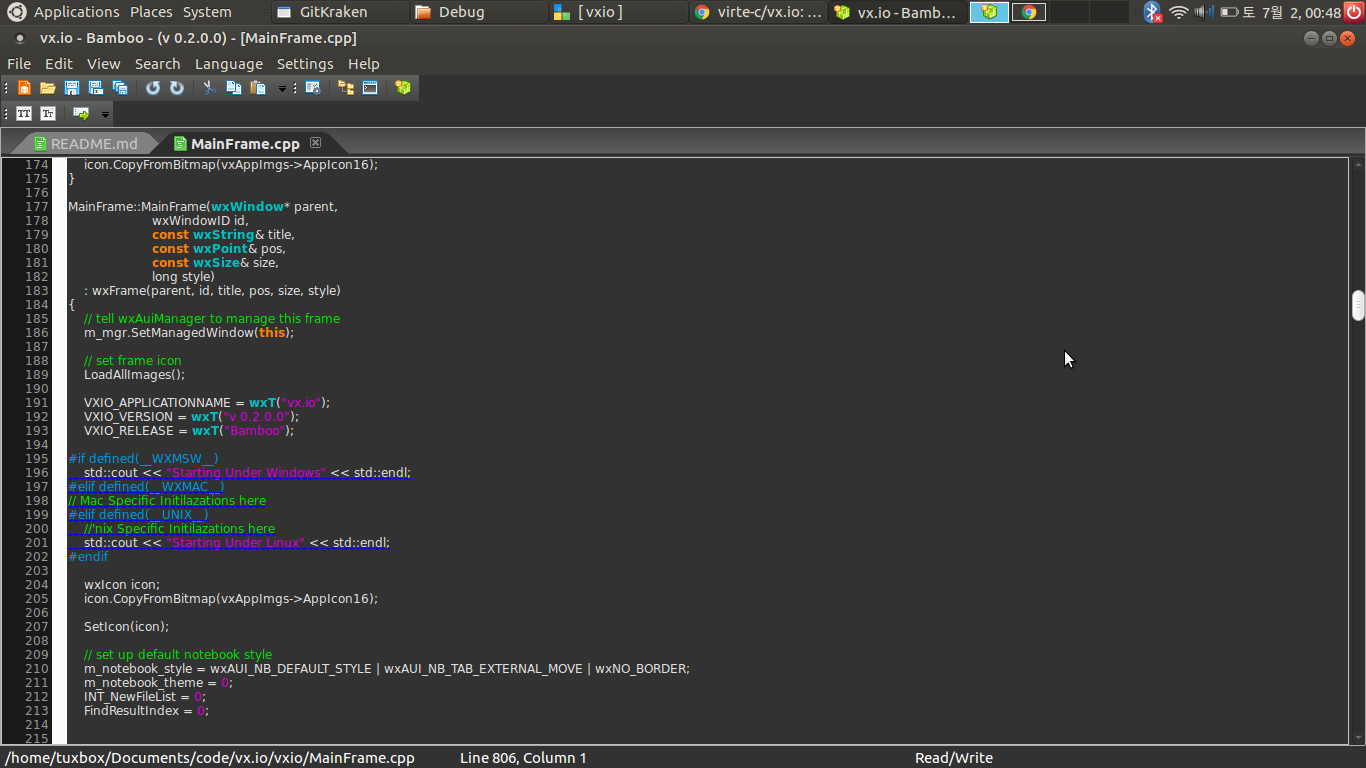
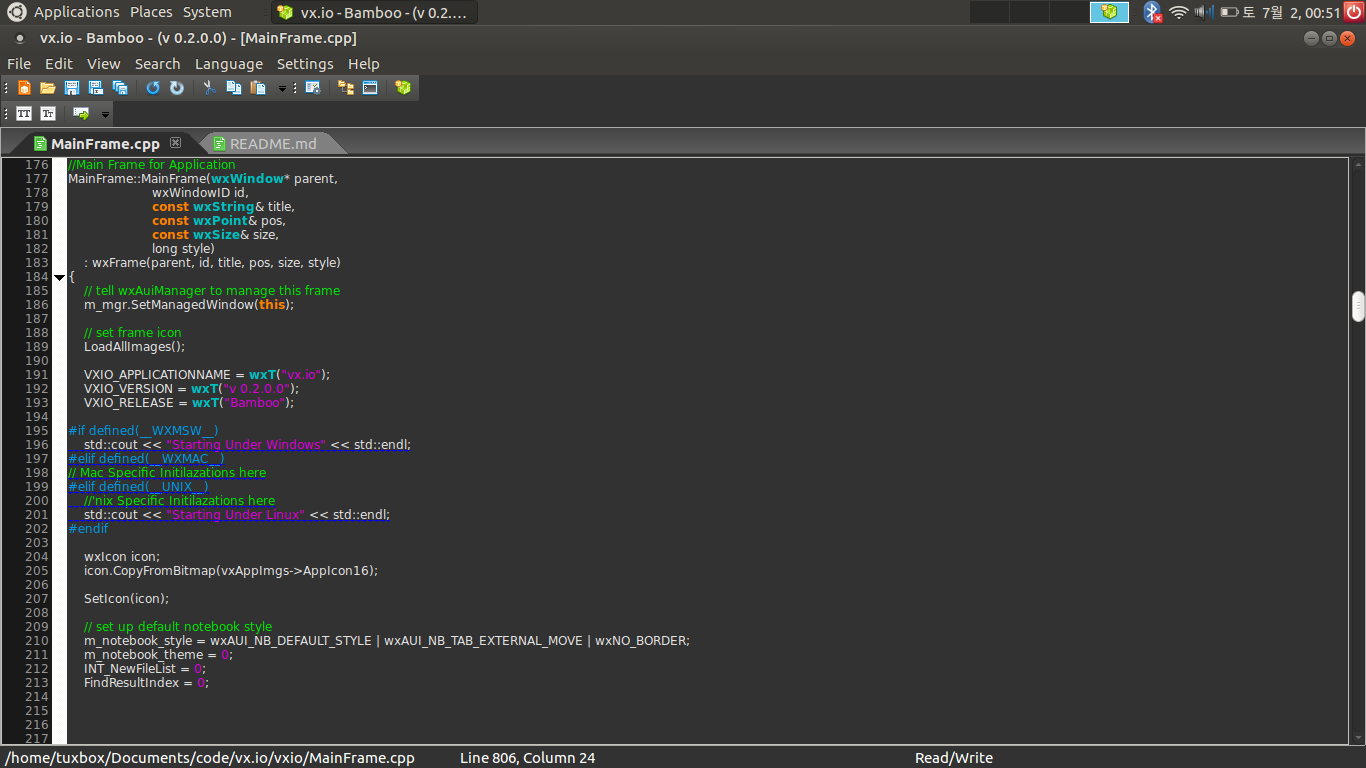
Update of Cover Image

diff --git a/vxio/MainFrame.cpp b/vxio/MainFrame.cpp
@@ -173,7 +173,7 @@ void MainFrame::LoadAllImages()
     wxIcon icon;
     icon.CopyFromBitmap(vxAppImgs->AppIcon16);
 }
-
+//Main Frame for Application
 MainFrame::MainFrame(wxWindow* parent,
                      wxWindowID id,
                      const wxString& title,
